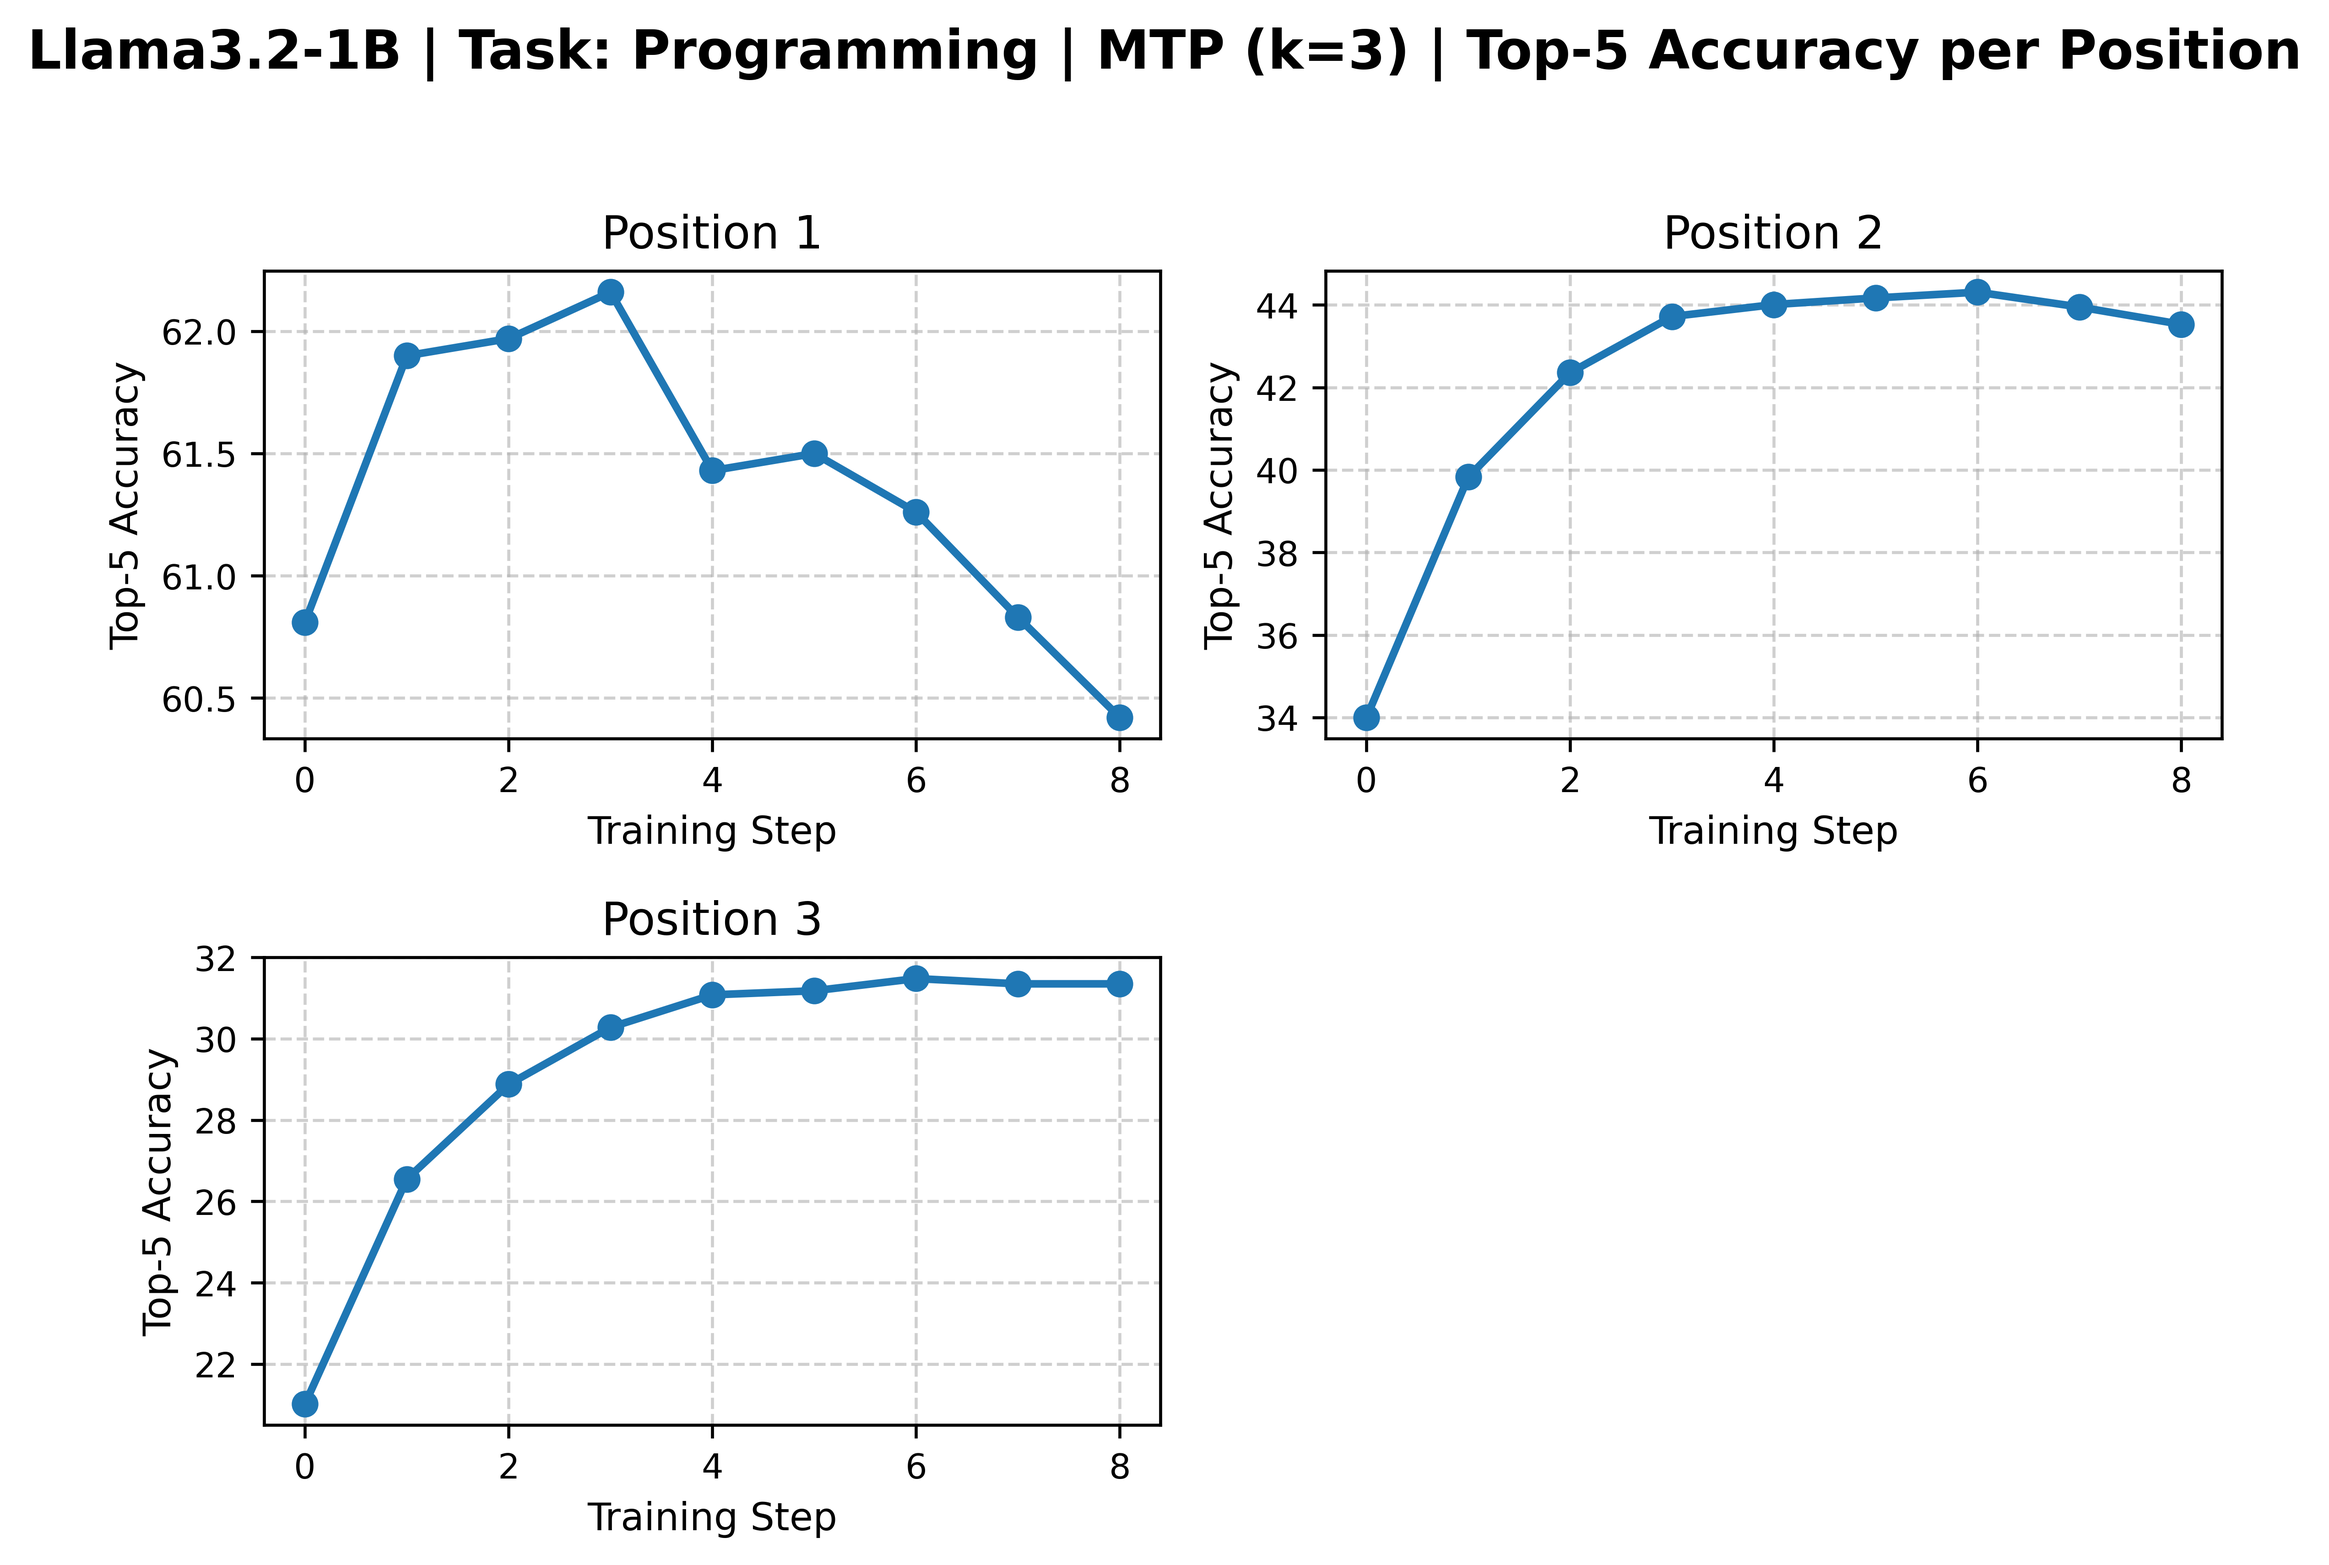
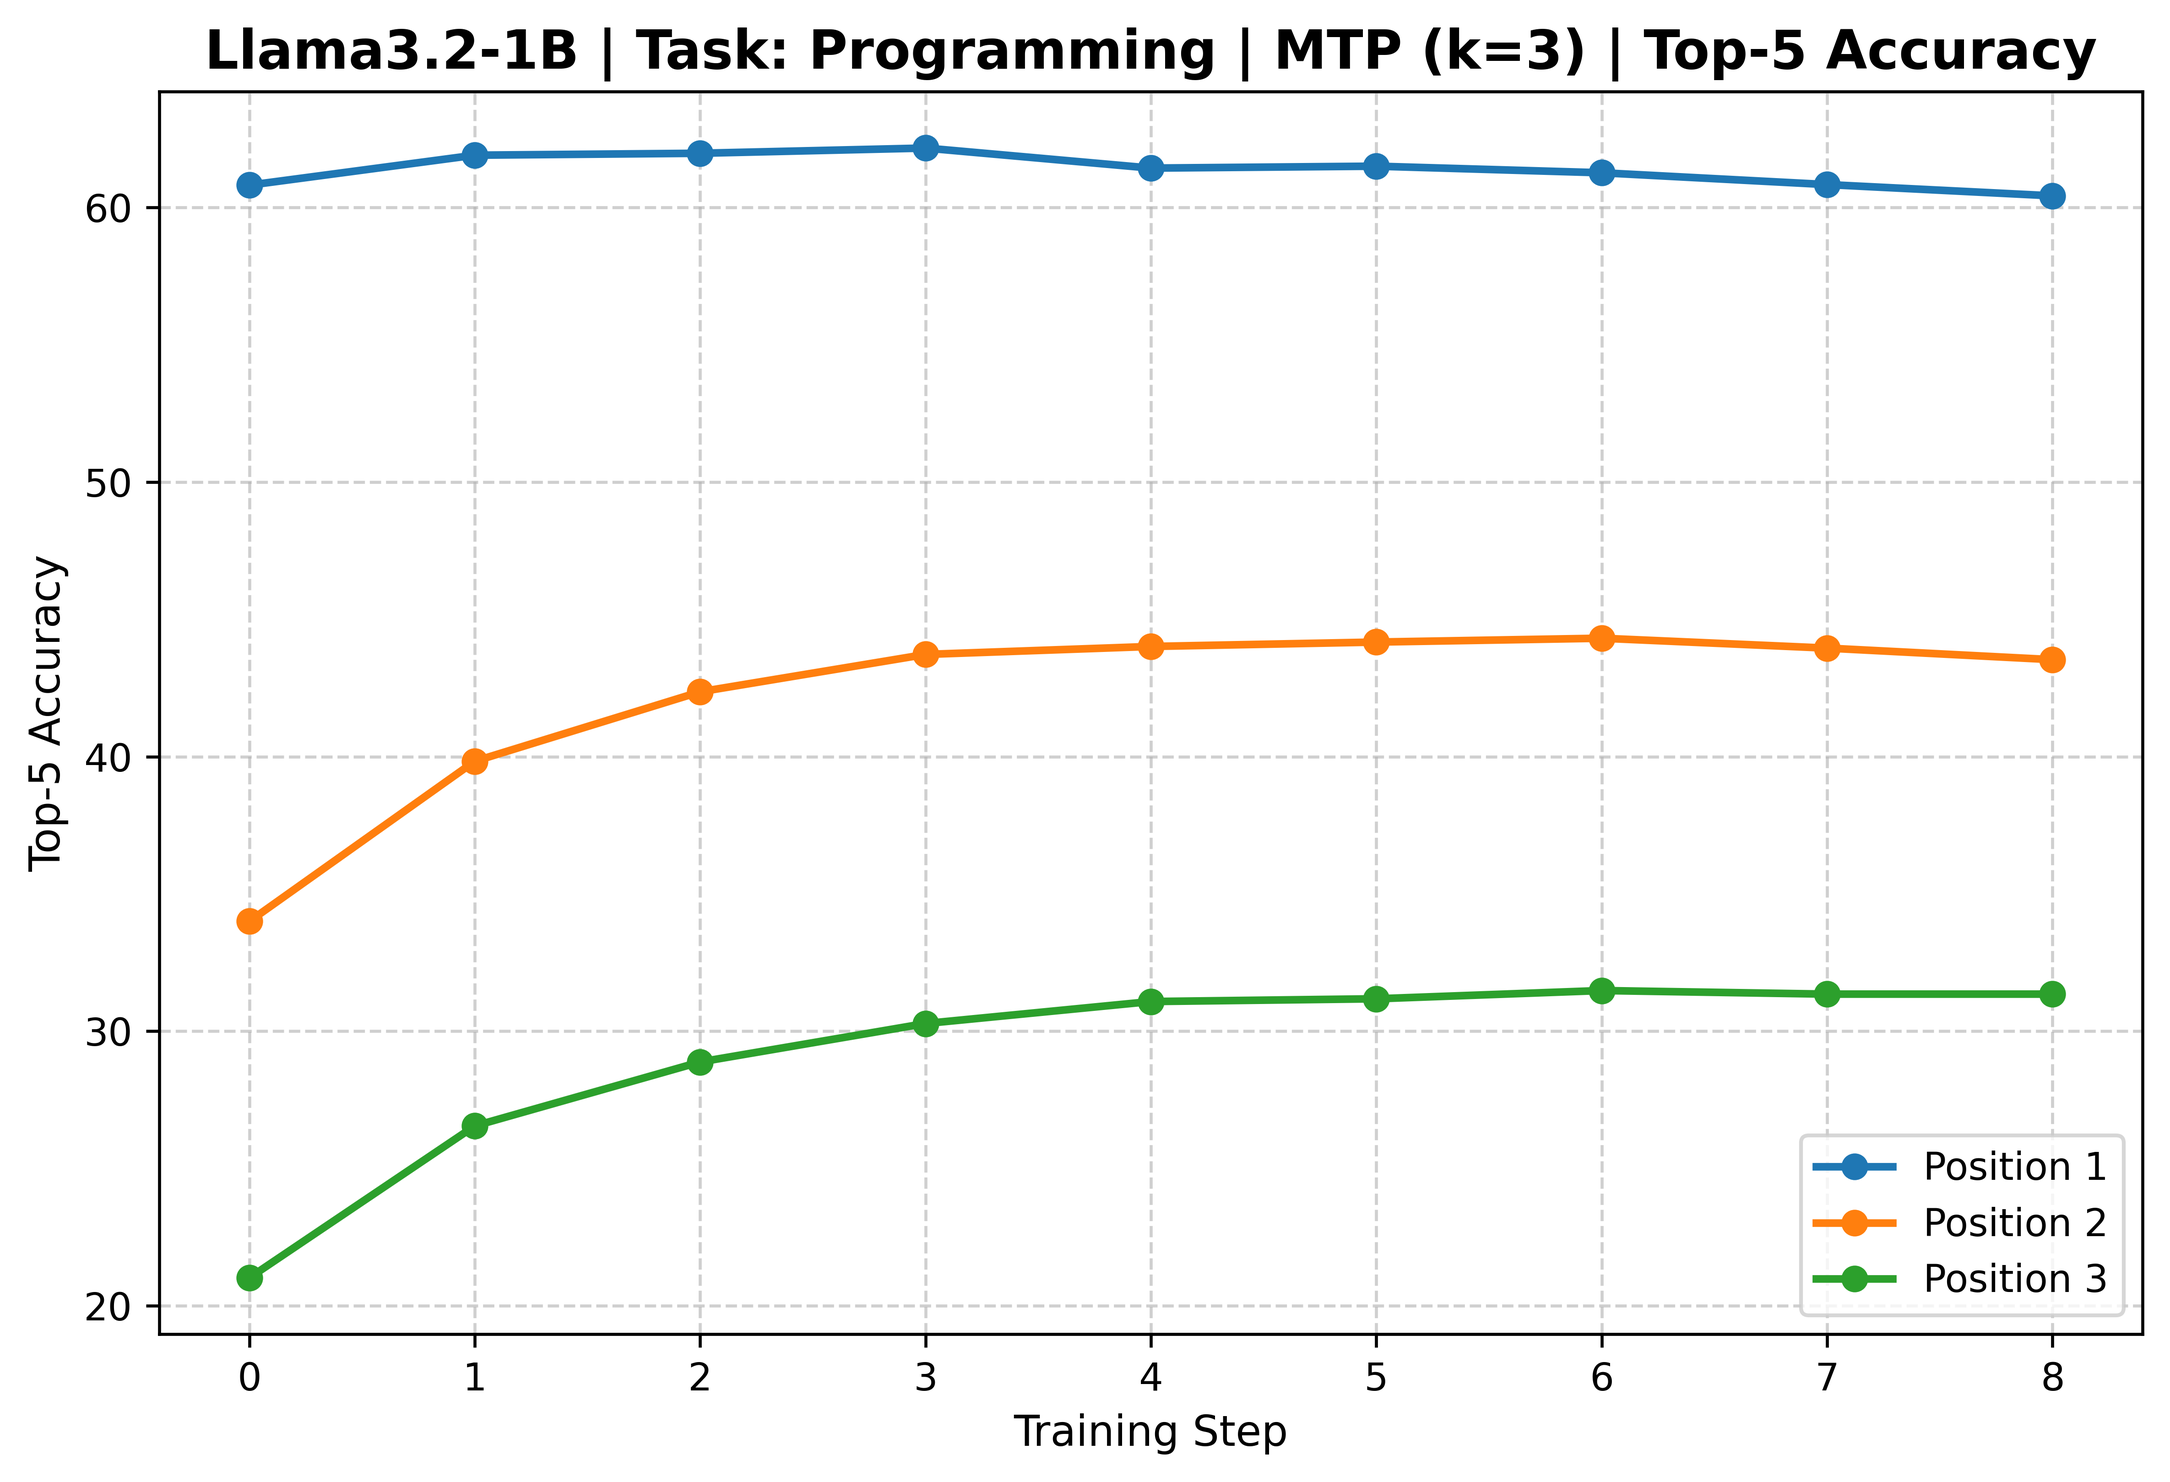
minor

diff --git a/utils.py b/utils.py
@@ -7,6 +7,9 @@ import os
 import logging
 from typing import Dict
 from datetime import datetime
+from collections import defaultdict
+import re
+import matplotlib.pyplot as plt
 
 @torch.inference_mode()
 def generate(model, max_tokens: int, prompt: str, tokenizer: Tokenizer, device: str) -> str:
@@ -82,3 +85,68 @@ def calculate_per_token_accuracy(logits_dict: Dict[int, torch.Tensor],
         per_token_accuracy[i] = num_correct/total_num
     
     return per_token_accuracy
+
+def parse_log_filename(filename: str):
+    pattern = r"training_(?P<model>.+?)_k=(?P<k>\d+)_top_k=(?P<top_k>\d+)_task=(?P<task>.+?)_\d{4}-\d{2}-\d{2}\.log"
+    match = re.match(pattern, filename)
+    if match:
+        return {
+            "model_name": match.group("model"),
+            "k": int(match.group("k")),
+            "top_k": int(match.group("top_k")),
+            "task": match.group("task")
+        }
+    else:
+        raise ValueError("Filename does not match expected pattern.")
+
+
+def get_acc_scores_from_log_file(log_file: str) -> dict:
+    val_acc_k_scores = parse_log_filename(log_file.split("/")[-1])
+    val_acc_k_scores["k_pos_scores"] = defaultdict(list)
+    acc_pattern = r'acc \d: (\d+\.\d+)'
+    with open(log_file, "r") as f:
+        for line in f.readlines():
+            if "val" in line:
+                scores = re.findall(acc_pattern, line.strip())
+                assert len(scores) == val_acc_k_scores["k"]
+                for i in range(len(scores)):
+                    val_acc_k_scores["k_pos_scores"][i].append(float(scores[i]))
+    return val_acc_k_scores
+
+def plot_k_pos_scores(results_dict, save_fig: bool=False):
+    k_pos_scores = results_dict['k_pos_scores']
+    k = results_dict['k']
+    model = results_dict['model_name']
+    top_k_val = results_dict['top_k']
+    task = results_dict['task'].capitalize()
+
+    plt.figure(figsize=(8, 5.5))
+
+    for i in range(k):
+        plt.plot(
+            k_pos_scores[i],
+            marker='o',
+            linewidth=2,
+            label=f'Position {i+1}'
+        )
+
+    plt.title(
+        f'{model} | Task: {task} | MTP (k={k}) | Top-{top_k_val} Accuracy',
+        fontsize=14,
+        fontweight='bold'
+    )
+    plt.xlabel('Training Step', fontsize=11)
+    plt.ylabel(f'Top-{top_k_val} Accuracy', fontsize=11)
+    plt.grid(True, linestyle='--', alpha=0.6)
+    plt.legend(fontsize=10)
+    plt.tight_layout()
+
+    if save_fig:
+        if not os.path.exists("assets"):
+            os.mkdir("assets")
+        plt.savefig(
+            f"assets/{model}_{task}_k={k}_top_k={top_k_val}.png",
+            dpi=600,
+            bbox_inches='tight'
+        )
+    plt.show()
